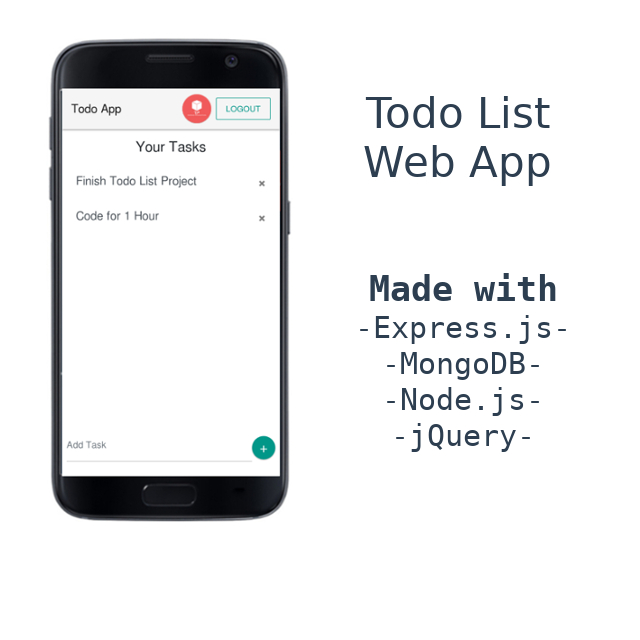
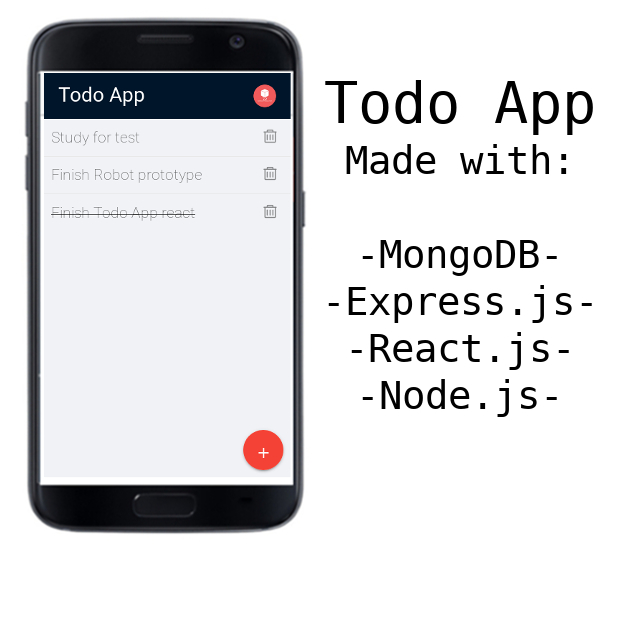
changed picture

Changed region(s): [[0.0312, 0.0, 0.9375, 0.8438], [0.5312, 0.375, 0.9062, 0.7188]]

diff --git a/index.html b/index.html
@@ -618,7 +618,7 @@
 						<div class="ins-details">
 							<div class="ins-name">
 								<h3>Todo List Web App</h3>
-								<p>A To Do List Web Apps made with Mongodb, Express.js, Node.js, jQuery with Login features using Passport.js </p>
+								<p>A To Do List Web Apps made with Mongodb, Express.js, React.js and Node.js with Login features using Passport.js </p>
 								<div class="text-center">
 										<a target="_blank" href="https://mfrashad-todo-app.herokuapp.com/"><button class="modal-btn">View project</button></a>
 								</div>
